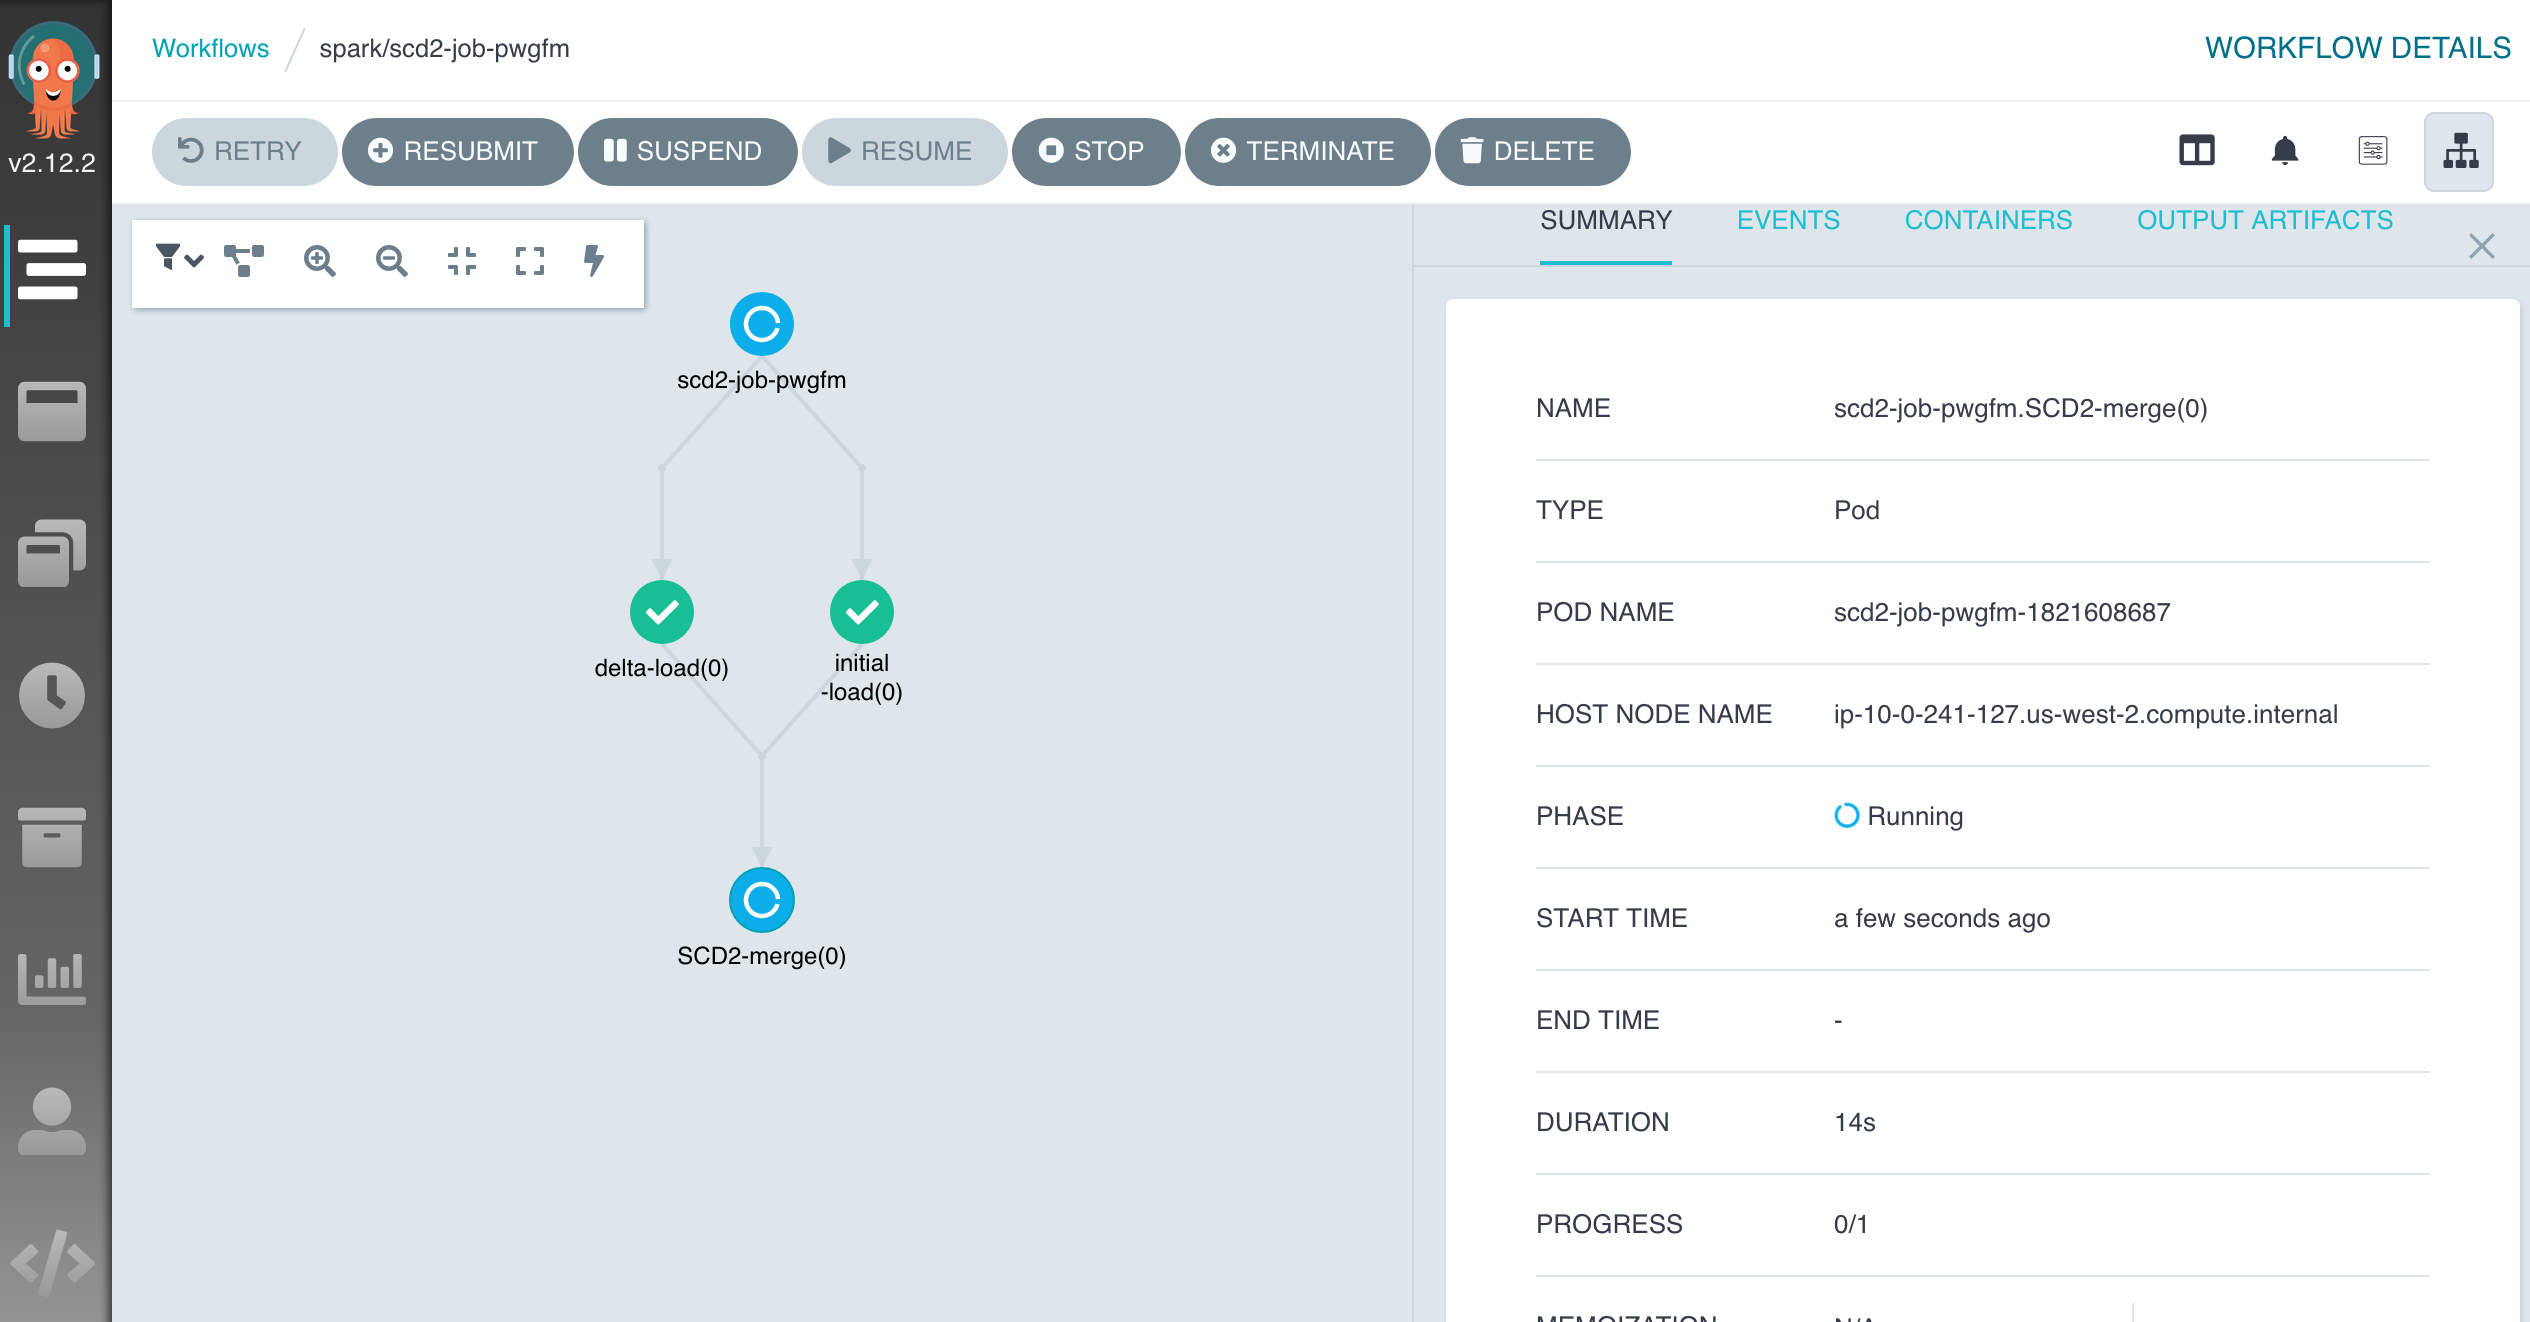
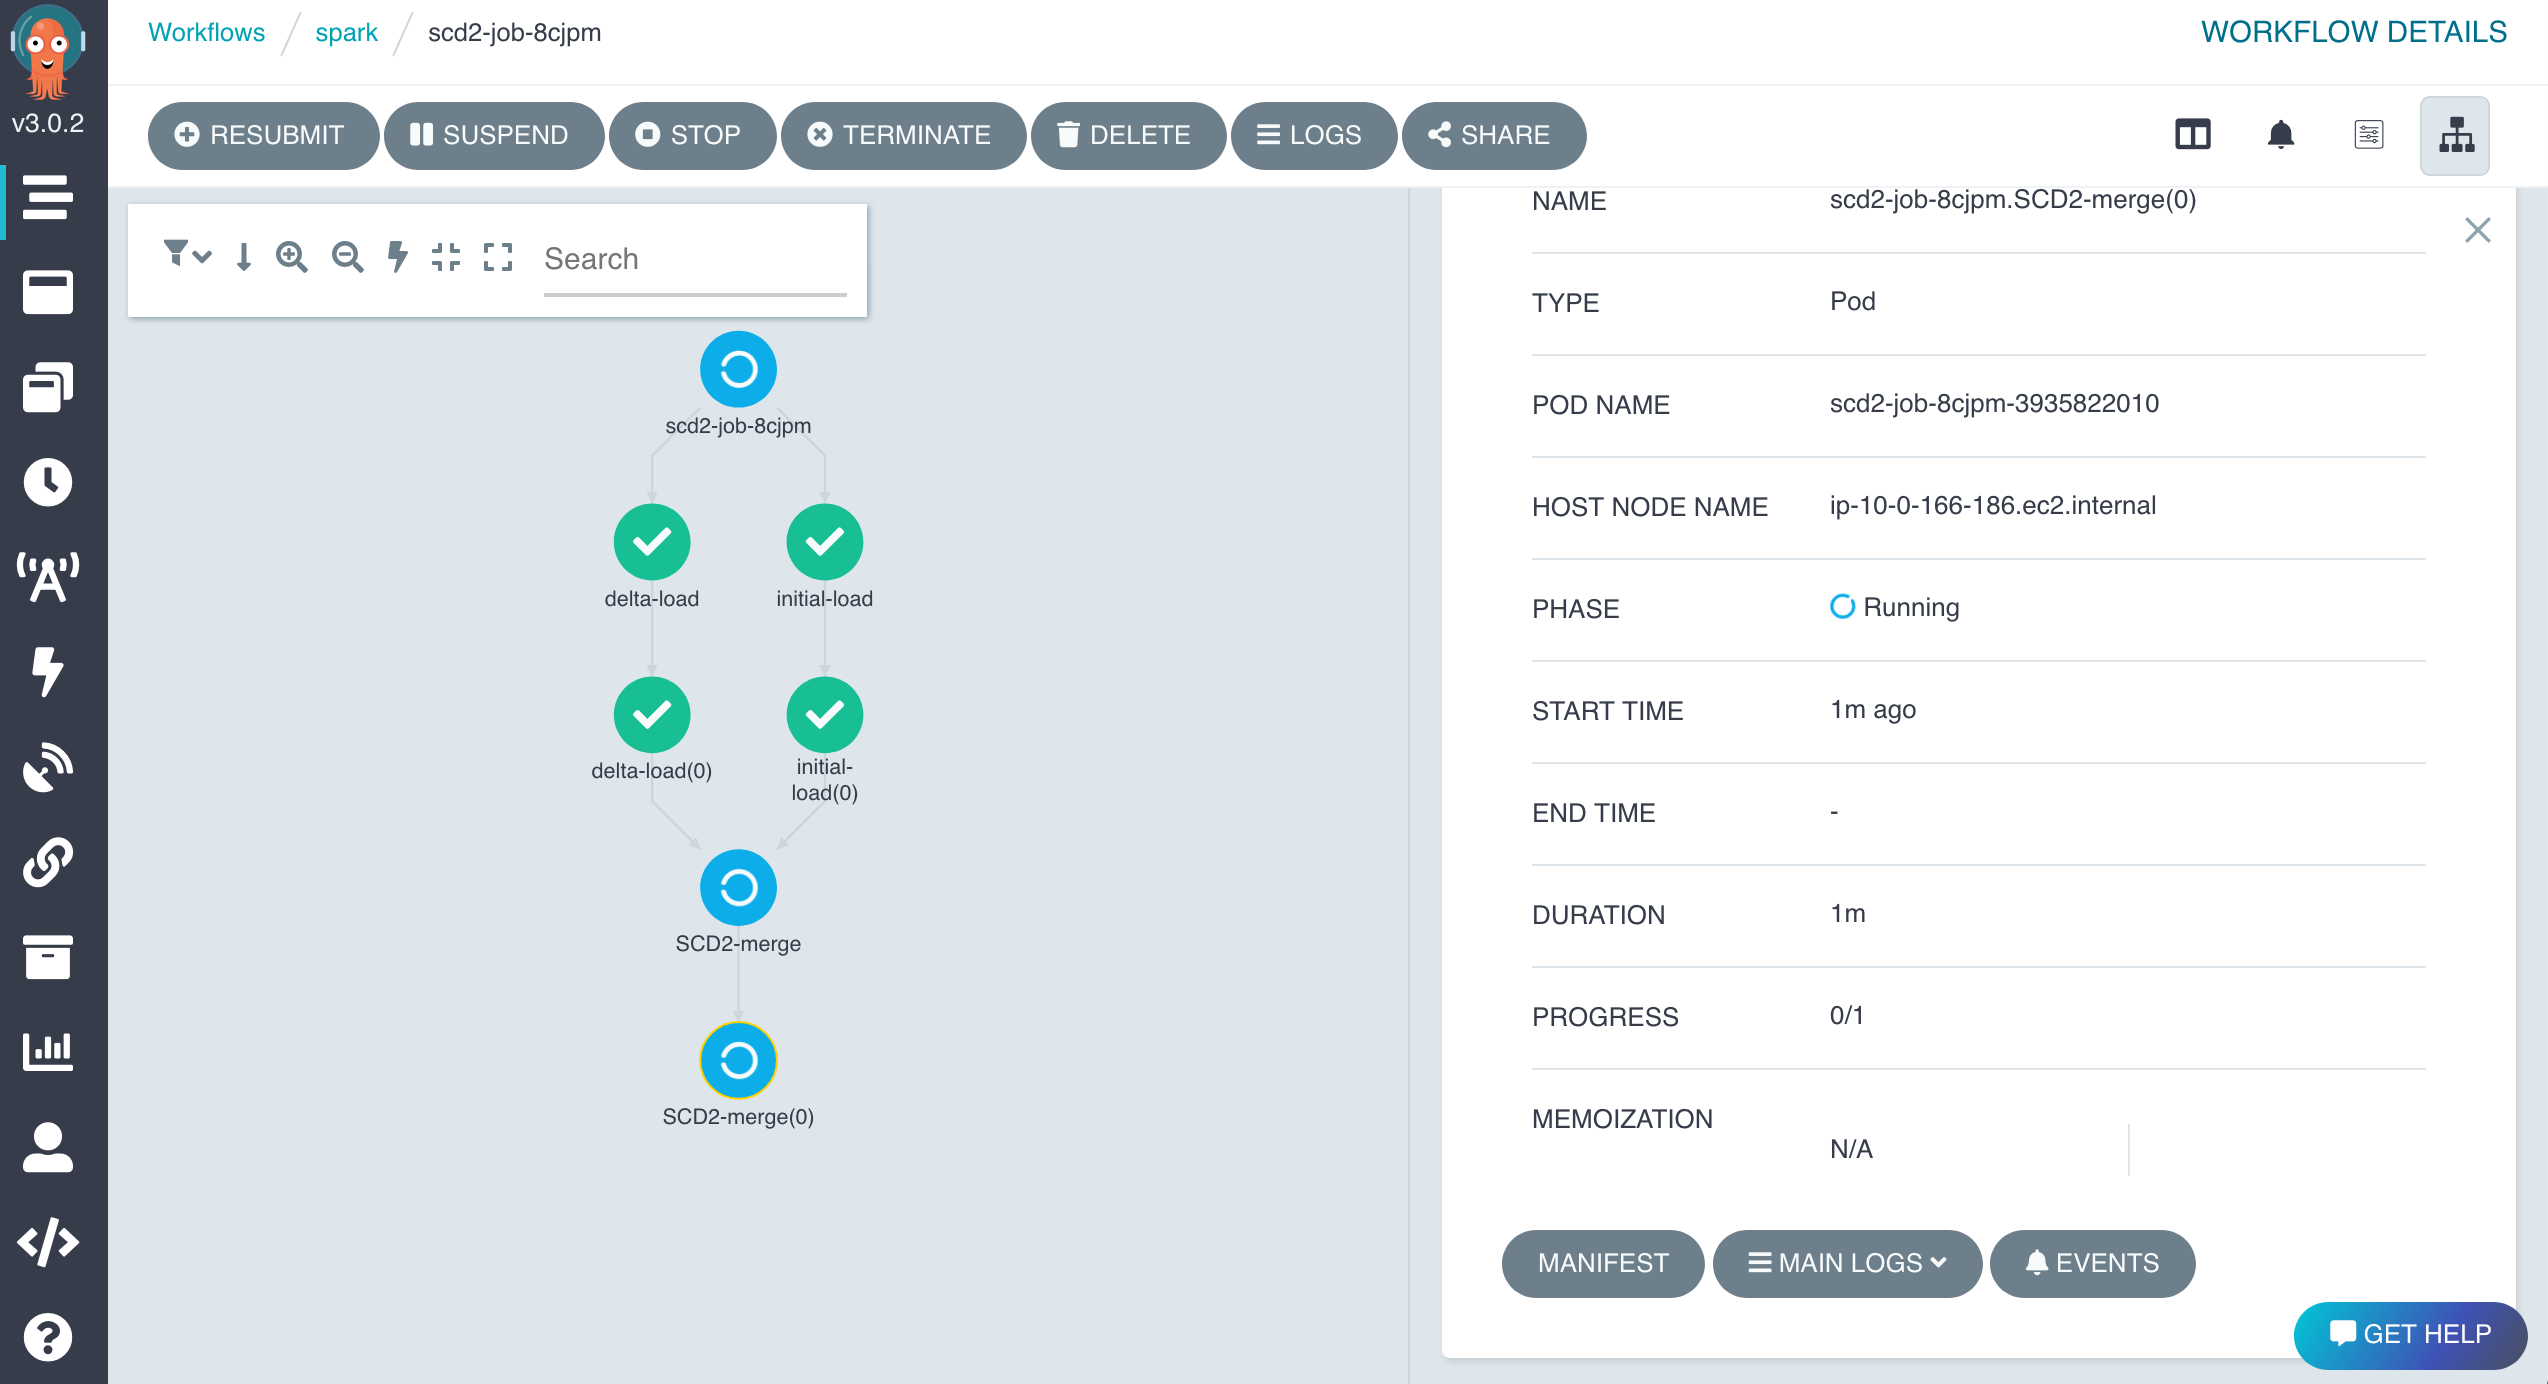
upgrade argo

diff --git a/spark-on-eks/source/lib/spark_on_eks_stack.py b/spark-on-eks/source/lib/spark_on_eks_stack.py
@@ -105,9 +105,10 @@ class SparkOnEksStack(core.Stack):
         # 4. Install ETL orchestrator - Argo
         # can be replaced by other workflow tool, ie. Airflow
         argo_install = eks_cluster.my_cluster.add_helm_chart('ARGOChart',
-            chart='argo',
+            chart='argo-workflows',
             repository='https://argoproj.github.io/argo-helm',
             release='argo',
+            version='0.1.4',
             namespace='argo',
             create_namespace=True,
             values=load_yaml_local(source_dir+'/app_resources/argo-values.yaml')
@@ -134,7 +135,7 @@ class SparkOnEksStack(core.Stack):
             cluster=eks_cluster.my_cluster,
             json_path='..status.loadBalancer.ingress[0].hostname',
             object_type='ingress.networking',
-            object_name='argo-server',
+            object_name='argo-argo-workflows-server',
             object_namespace='argo'
         )
         self._argo_alb.node.add_dependency(argo_install)

diff --git a/spark-on-eks/README.md b/spark-on-eks/README.md
@@ -125,7 +125,7 @@ LOGIN=$(argo auth token)
 echo -e "\nArgo website:\n$ARGO_URL\n"
 echo -e "\nLogin token:\n$LOGIN\n"
 ```
-3. Click `SUBMIT NEW WORKFLOW` button, replace content by the followings, then `SUBMIT`. Click a pod (dot) to check the job status and application logs.
+3. Select the `SUBMIT NEW WORKFLOW` button. Go to `Edit using full workflow options`, and replace the replace content by the followings. Finally, click `CREATE`. Select a pod (dot) to check the job status and application logs.
 
   ```yaml
   apiVersion: argoproj.io/v1alpha1
@@ -143,8 +143,7 @@ echo -e "\nLogin token:\n$LOGIN\n"
           - name: step1-query
             templateRef:
               name: spark-template
-              template: sparkLocal
-              clusterScope: true   
+              template: sparkLocal  
             arguments:
               parameters:
               - name: jobId
